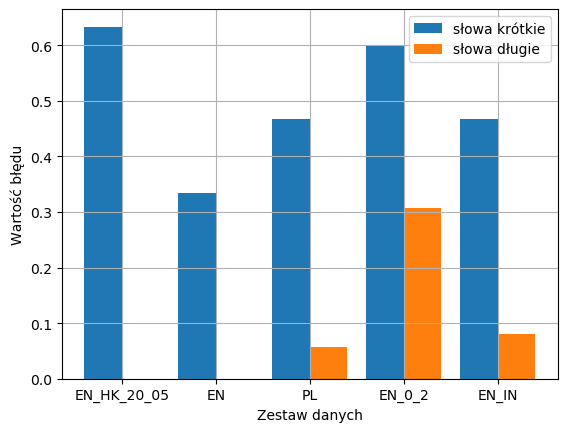
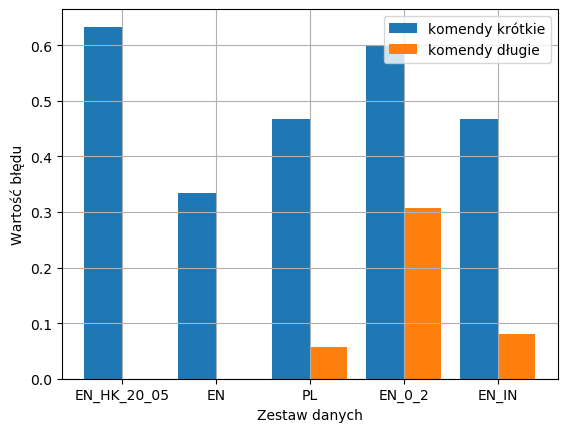
podsumowanie done

Changed region(s): [[0.6596, 0.0301, 0.9594, 0.1505]]

diff --git a/rozdzial4.tex b/rozdzial4.tex
@@ -3,7 +3,7 @@
 
 Sterowanie za pomocą komend głosowych może stać się o wiele cięższe w wykonaniu, kiedy w grę wchodzą czynniki takie jak akcent, inny niż stosowany w algorytmie język, dźwięki w tle, złożoność polecenia czy nawet niewyraźna mowa. Z uwagi na ten fakt, algorytm do rozpoznawania mowy używany w programie został poddany scenariuszom testowym. 
 
-Na potrzeby testów stworzono pięć zestawów tych samych dziesięciu poleceń, różniących się pomiędzy sobą kilkoma czynnikami:
+Na potrzeby testów przy użyciu darmowego narzędzia do generacji mowy \cite{conv} stworzono pięć zestawów tych samych dziesięciu poleceń, różniących się pomiędzy sobą kilkoma czynnikami:
 \begin{itemize}
     \item oryginalny zestaw komend w języku angielskim z akcentem amerykańskim \textit{[EN]},
     \item wersja w języku angielskim z akcentem amerykańskim, gdzie prędkość nagrania to 2.0 \textit{[EN-0-2]},
@@ -14,7 +14,7 @@ Na potrzeby testów stworzono pięć zestawów tych samych dziesięciu poleceń,
 
 Do zestawów danych została dołożona również wersja polska, celem sprawdzenia użyteczności algorytmu w wypadku implementacji na fizycznym urządzeniu. Modyfikacje prędkości, tonacji i akcentów zostały wykonane na potrzeby zróżnicowania danych i wprowadzenia trudności dla algorytmu do zrozumienia komend. 
 
-Używając metryki WER \ref{eq:wer} została obliczona średnia wartość błędu w skali od 0 do 1 dla każdego z zestawów danych, widoczna na wykresie \ref{fig:dts1}. Można na nim zauważyć, że zgodnie z oczekiwaniami, zestaw \textit{[EN]} oryginalnych komend w języku angielskim posiada najmniejszą wartość błędu. Zarówno zestaw z akcentem Indii \textit{[EN-IN]} jak ten z akcentem Hong Kongu radzą sobie równie dobrze. Najbardziej wyróżnia się zestaw komend po polsku \textit{[PL]}, ze względu na niewystępujące w transkrypcji znaki łacińskie.
+Używając metryki WER \ref{eq:wer} została obliczona średnia wartość błędu dla każdego z zestawów danych, widoczna na wykresie \ref{fig:dts1}. Można na nim zauważyć, że zgodnie z oczekiwaniami, zestaw \textit{[EN]} oryginalnych komend w języku angielskim posiada najmniejszą wartość błędu. Zarówno zestaw z akcentem Indii \textit{[EN-IN]} jak ten z akcentem Hong Kongu radzą sobie równie dobrze. Najbardziej wyróżnia się zestaw komend po polsku \textit{[PL]}, ze względu na niewystępujące w transkrypcji znaki łacińskie.
 
 \begin{center}
     \includegraphics[width=0.7\linewidth]{files/output1.png}
@@ -30,31 +30,34 @@ Po uwzględnieniu w transkrypcji znaków łacińskich, można zauważyć na wykr
     \label{fig:dts2}
 \end{center}
 
+\break
+
 Dane w zestawach dzielą się na dwie kategorie pod względem długości polecenia:
 \begin{itemize}
-    \item proste komendy poniżej 15 znaków \textit{[słowa krótkie]},
-    \item bardziej złożone komendy powyżej 15 znaków \textit{[słowa długie]}.
+    \item proste komendy poniżej 15 znaków \textit{[komendy krótkie]},
+    \item bardziej złożone komendy powyżej 15 znaków \textit{[komendy długie]}.
 \end{itemize}
 
-% dopisz tu cos TODO
-% czy dodawac reference  do stronki konwertera
+Wśród krótkich komend można znaleźć polecenia jazdy do przodu, do tyłu, zatrzymania się czy ustawienia prędkości, natomiast wśród długich polecenia jazdy ze skrętem w różne strony. Na wykresie \ref{fig:dts3} można zauważyć znaczącą przewagę w rozpoznawaniu przez algorytm bardziej złożonych komend. Jest to prawdopodobnie spowodowane za dużą prostotą krótkich komend - część z nich to pojedyncze słowa, które bez dalszego kontekstu są niezrozumiałe dla algorytmu i nie jest w stanie on określić ich znaczenia. 
 
 \begin{center}
     \includegraphics[width=0.7\linewidth]{files/output3.png}
-    \captionof{figure}{Średnia wartość błędu dla słów krótkich i słów długich}
+    \captionof{figure}{Średnia wartość błędu dla komend krótkich i długich}
     \label{fig:dts3}
 \end{center}
 
-%  jeszcze wykres x to slowa y to srednie rozpoznawanie ich? - nwm zobacze rano
-% analiza tych zestawow danych, gdzie jest modyfikacja - WAZNE
+Aby zagłębić się w strukturę czytelności poleceń, dla zestawów danych w języku angielskim z modyfikacjami została obliczona również średnia wartość błędu dla każdej z komend, która może zostać odczytana z wykresu \ref{fig:dts4}. Dla porównania, na wykresie została umieszczona wartość błędu dla oryginalnego zestawu poleceń w języku angielskim.
+
+\begin{center}
+    \includegraphics[width=0.7\linewidth]{files/output5.png}
+    \captionof{figure}{Średnia wartość błędu dla każdej z komend}
+    \label{fig:dts4}
+\end{center}
+
+Jak wspomniano wcześniej, można zaobserwować znaczącą różnicę w rozpoznawalności krótkich poleceń, jak na przykład \textit{stop}, polecenie posiadające najwyższą średnią wartość błędu - niezrozumienia przez algorytm. Analizując wykres można dojść do wniosku, że algorytm w miarę sprawnie radzi sobie z rozpoznawaniem mowy nawet jeśli jest ona zmodyfikowana w jakiś sposób. Pomimo, że jest to bardzo mała próbka zestawu danych i może nie dostarczać w pełni wiarygodnych wyników, jednak spełnia aktualne potrzeby programu.
+
+
 % tutaj jeszcze mozna wrzucic testy samego robota - nie wiem jeszcze jak
 
-% Scenariusze testowe:
-% 1. inny akcent niz eng-us - indi
-% 1. mowa po polsku - czy w ogole rozpoznaje język?
-% 2. złożone komendy
-% 3. muzyka np w tle/bardzo cicho
-% chin - pitch -20, speed -0.5
-% indi - speed 2.0
 
 %---------------------------------------------------------------------------

diff --git a/rozdzial5.tex b/rozdzial5.tex
@@ -1,8 +1,10 @@
 \chapter{Podsumowanie}
 \label{cha:podsumowanie}
 
-% wykonanie panelu bylo troche ciezkie w kontekscie doboru narzędzi
-%  dużo czasu zajęło przeprowadzenie ewaluacji algorytmow 
-% to co jest uzywane do rozpoznawania glosowego niekoniecznie dziala idealnie - jak widac na wykresach
+W pracy zostało zawarte zestawienie oraz ewaluacja podejść, jakie można wykorzystać w automatycznym rozpoznawaniu mowy. Przegląd algorytmów pozwolił na weryfikację założeń projektowych oraz wstępną ewaluację, gdzie spośród trzech zaproponowanych rozwiązań zostało wybrane jedno, sugerujące największą dokładność w wykonywaniu podanego zadania. Użyta w ewaluacji metryka jest jednym z głównych i najbardziej wiarygodnym wskaźnikiem algorytmów służących do rozpoznawania lub tłumaczenia mowy.  
 
-%---------------------------------------------------------------------------
+Wykonany na potrzeby weryfikacji rozwiązania panel HMI umożliwia sterowanie robotem zarówno w sposób manualny jak i głosowy, zapewniając podstawowe komendy sprawdzające użyteczność zaproponowanego rozwiązania. Narzędzia użyte do zbudowania środowiska, w którym możliwe było sprawdzenie jego działania to aktualnie jedne z najlepszych dostępnych na rynku otwartych oprogramowań, które są używane nie tylko w prywatnych projektach, ale sprawdzają się również edukacyjnie i komercyjnie. Budowa samego panelu HMI wymagała podejścia iteracyjnego, gdzie po napisaniu każdej z części, konieczne było testowanie jego działania i spójności z algorytmem. Zaproponowane rozwiązanie wykonania panelu za pomocą biblioteki Pythona było jednocześnie łatwe do zrealizowania jak i skuteczne w swoim zastosowaniu. Biblioteka zapewniła przy wykonanym nakładzie pracy wystarczający zestaw narzędzi konieczny do weryfikacji rezultatów.
+
+W trakcie procesu pracy nad projektem największe wyzwanie stanowiła ewaluacja algorytmów uczenia maszynowego. Dziedzina ta wymaga dogłębnego zrozumienia na każdym poziomie działania sieci neuronowych oraz uczenia i douczania na danych. Samo znalezienie spełniającego wymagania sprzętowe, środowiskowe i wydajnościowe zestawu danych do przeprowadzenia ewaluacji wymagało sporego nakładu pracy w postaci przeszukiwania i analizy używanych w takich przypadkach danych. Niemniej jednak, jak wynika z rozdziału \ref{cha:testy}, proces ten zaowocował w późniejszym etapie zadowalającymi wynikami, które mogły zostać faktycznie użyte do sterowania robotem w symulacji. 
+
+Przeprowadzona w pracy analiza i zaproponowane rozwiązania są jedynie małym krokiem w stronę zastosowania algorytmów uczenia maszynowego w praktyce życia codziennego. Dziedzina ta ciągle się rozwija, pisane są nowe modele i zbierane nowe zestawy danych, które jeszcze lepiej będą mogły radzić sobie ze stawianymi przed nimi zadaniami optymalizacji i usprawniania otaczającego nas świata. Przedstawiona propozycja sterowanego mową interfejsu człowiek-maszyna, w przyszłości ma możliwość bycia rozbudowaną o więcej funkcjonalności lub zmodyfikowania na potrzeby innych zadań. Przed nami stoi tylko decyzja: co zrobimy dalej?

diff --git a/rozdzial2.tex b/rozdzial2.tex
@@ -130,14 +130,20 @@ Używaną do ewaluacji metryką jest \textit{WER - Word Error Rate}, która licz
     WER = \frac{S+I+D}{N}
 \end{equation}
 
-Do ewaluacji został wykorzystany zestaw danych \textit{edinburghcstr/ami} huggingface t\cite{dataset-eval}, składający się ze 100 godzin nagrań spotkań w języku angielskim. Przy użyciu biblioteki \textit{jiwer} \cite{jiwer}, przeprowadzono ewaluację powyższych algorytmów na podstawie zestawu danych \cite{dataset-eval}. Wyniki zostały przedstawione w tabeli \ref{tab:tab1}, gdzie wartość przy nazwie algorytmu jest wartością błędu każdego z nich w skali od 0 do 1.
-\begin{table}[h]
-    \centering
-    \caption{Ewaluacja WER}
-    \begin{tabular}{c|c|c}
-        Wav2Vec & Whisper & SpeechRecognition  \\ 
-        0.736557 & 0.713998 & 0.514967
-    \end{tabular}
-    \label{tab:tab1}
-\end{table}
+Do ewaluacji został wykorzystany zestaw danych \textit{edinburghcstr/ami} huggingface t\cite{dataset-eval}, składający się ze 100 godzin nagrań spotkań w języku angielskim. Przy użyciu biblioteki \textit{jiwer} \cite{jiwer}, przeprowadzono ewaluację powyższych algorytmów na podstawie zestawu danych \cite{dataset-eval}. Wyniki zostały przedstawione na wykresie \ref{fig:dts0}, gdzie wartość przy nazwie algorytmu jest wartością błędu każdego z nich.
+% \begin{table}[h]
+%     \centering
+%     \caption{Ewaluacja WER}
+%     \begin{tabular}{c|c|c}
+%         Wav2Vec & Whisper & SpeechRecognition  \\ 
+%         0.736557 & 0.713998 & 0.514967
+%     \end{tabular}
+%     \label{tab:tab1}
+% \end{table}
+\begin{center}
+    \includegraphics[width=0.7\linewidth]{files/output0.png}
+    \captionof{figure}{Ewaluacja WER}
+    \label{fig:dts0}
+\end{center}
+
 Oczywiście, wyniki te różnią się znacznie od podanych w pracach na temat wspomnianych powyżej algorytmów wartości zarówno z uwagi na fakt umieszczenia ich w lokalnym środowisku na maszynie bez jednostki obliczeniowej GPU, ale również jakości zestawu danych walidującego poprawność działania. Z uwagi na fakt prostoty w obsłudzie i najniższego współczynnika błędu, w dalszej części pracy jako algorytm będący podstawą działania panelu do sterowania głosowego zostało wybrane podejście zdalne i biblioteka \textit{SpeechRecognition} \cite{speechrec}.

diff --git a/praca.tex b/praca.tex
@@ -23,7 +23,7 @@
 \faculty{Wydział Elektrotechniki, Automatyki, Informatyki i Inżynierii Biomedycznej}
 %\faculty{Faculty of Electrical Engineering, Automatics, Computer Science and Biomedical Engineering}
 
-\acknowledgements{Serdecznie dziękuję \dots.}
+\acknowledgements{Serdecznie dziękuję moim przyjaciołom za to, że są.}
 
 
 \begin{document}
@@ -39,6 +39,7 @@
 	\include{rozdzial2}
 	\include{rozdzial3}
 	\include{rozdzial4}
+    \include{rozdzial5}
 	
 	% itd.
 	% \appendix
